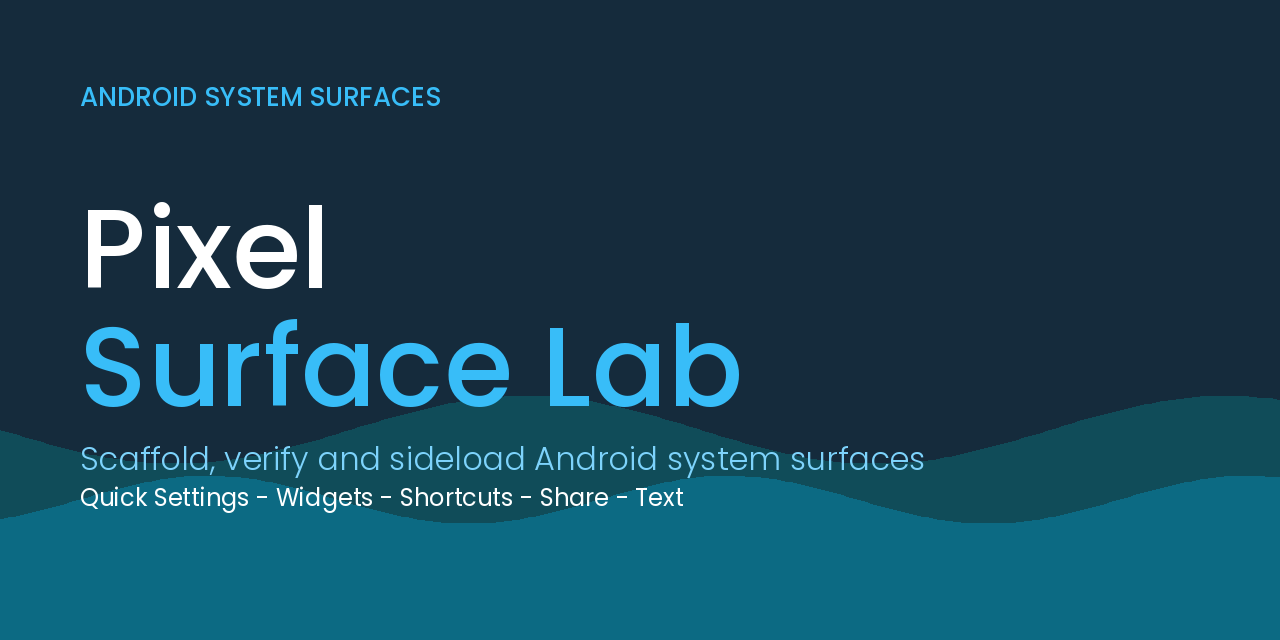
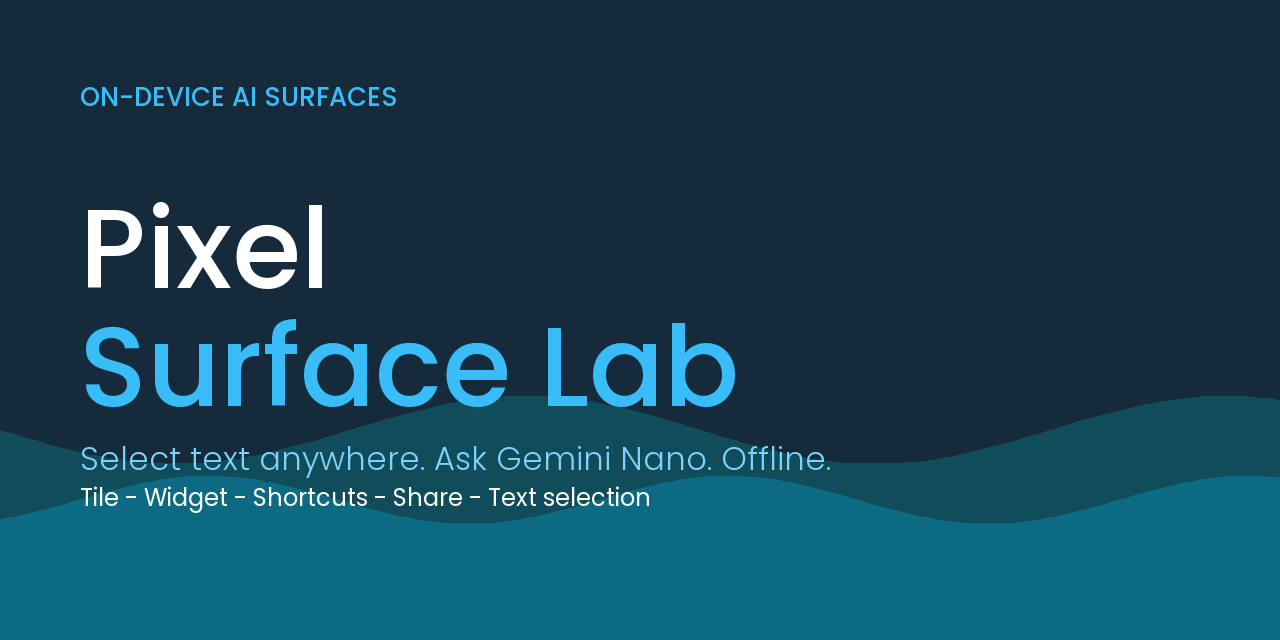
Polish pass: naming, generated projects, widget, assets, one more check
verify.py: a new check on the link between manifest and code. An
<activity-alias> whose name matches no Task case compiles, installs, shows
the menu item and then silently runs whichever task the fallback picked --
now caught statically, in both directions. Writing it surfaced that a
semicolon inside a KDoc line was truncating the enum scan, so comments are
stripped before the terminator is located.

scaffold.py: generated projects now carry tools/verify.py and gate CI on it.
Previously the generated README told you to run a checker that only existed
in the template you generated from, and the generated CI had no pre-flight at
all. Copying rather than templating means the two cannot drift. Generated
release steps also pass --repo explicitly, matching the flagship.

Naming: DemoTileService and DemoWidgetProvider became SurfaceTileService and
SurfaceWidgetProvider. They stopped being demos when they started reporting
model status and holding real answers.

Widget: the value was styled 28sp bold for a timestamp and now holds prose.
Sized for eight lines, ellipsized, clipped rather than allowed to overflow --
a RemoteViews layout that outgrows its cell is cropped by the launcher with
no way to scroll it.

ship.sh: the badge rewrite only replaced the OWNER/REPO placeholder, so
anyone cloning this repo shipped a project whose badges still pointed
upstream. Both spellings are rewritten now. It also runs the checker's own
tests before pushing, and names which APK to tap.
[…]

diff --git a/app/src/main/java/com/caceras/surfacelab/SurfaceWidgetProvider.kt b/app/src/main/java/com/caceras/surfacelab/SurfaceWidgetProvider.kt
@@ -16,7 +16,7 @@ import java.util.Locale
  * of its own, so everything it displays has to come from storage -- see
  * ResultStore. Tapping it refreshes via a broadcast back to this provider.
  */
-class DemoWidgetProvider : AppWidgetProvider() {
+class SurfaceWidgetProvider : AppWidgetProvider() {
 
     override fun onUpdate(
         context: Context,
@@ -31,7 +31,7 @@ class DemoWidgetProvider : AppWidgetProvider() {
         if (intent.action == ACTION_REFRESH) {
             val manager = AppWidgetManager.getInstance(context)
             val ids = manager.getAppWidgetIds(
-                ComponentName(context, DemoWidgetProvider::class.java)
+                ComponentName(context, SurfaceWidgetProvider::class.java)
             )
             onUpdate(context, manager, ids)
         }
@@ -43,7 +43,7 @@ class DemoWidgetProvider : AppWidgetProvider() {
         val value = last?.let { if (it.length > 160) it.take(157) + "..." else it }
             ?: SimpleDateFormat("HH:mm:ss", Locale.getDefault()).format(Date())
 
-        val refresh = Intent(context, DemoWidgetProvider::class.java)
+        val refresh = Intent(context, SurfaceWidgetProvider::class.java)
             .setAction(ACTION_REFRESH)
 
         // A mutability flag is mandatory on API 31+; omitting both

diff --git a/app/src/main/java/com/caceras/surfacelab/ResultStore.kt b/app/src/main/java/com/caceras/surfacelab/ResultStore.kt
@@ -41,12 +41,12 @@ object ResultStore {
         val app = context.applicationContext
         val manager = AppWidgetManager.getInstance(app)
         val ids = manager.getAppWidgetIds(
-            ComponentName(app, DemoWidgetProvider::class.java)
+            ComponentName(app, SurfaceWidgetProvider::class.java)
         )
         if (ids.isEmpty()) return
         app.sendBroadcast(
-            Intent(app, DemoWidgetProvider::class.java)
-                .setAction(DemoWidgetProvider.ACTION_REFRESH)
+            Intent(app, SurfaceWidgetProvider::class.java)
+                .setAction(SurfaceWidgetProvider.ACTION_REFRESH)
         )
     }
 }

diff --git a/app/src/main/java/com/caceras/surfacelab/MainActivity.kt b/app/src/main/java/com/caceras/surfacelab/MainActivity.kt
@@ -139,7 +139,7 @@ class MainActivity : Activity() {
                         .requestAddTileService(
                             ComponentName(
                                 this@MainActivity,
-                                DemoTileService::class.java
+                                SurfaceTileService::class.java
                             ),
                             getString(R.string.app_name),
                             Icon.createWithResource(

diff --git a/app/src/main/java/com/caceras/surfacelab/SurfaceTileService.kt b/app/src/main/java/com/caceras/surfacelab/SurfaceTileService.kt
@@ -15,7 +15,7 @@ import android.widget.Toast
  * is actually present on the device, and to trigger the one-time feature
  * download without hunting through system settings.
  */
-class DemoTileService : TileService() {
+class SurfaceTileService : TileService() {
 
     override fun onStartListening() {
         super.onStartListening()

diff --git a/tools/scaffold.py b/tools/scaffold.py
@@ -267,7 +267,21 @@ def workflow(files, app_name, slug):
           cancel-in-progress: true
 
         jobs:
+          # Two seconds here, versus three minutes to discover the same
+          # dangling resource reference at the end of a Gradle build.
+          verify:
+            name: Static pre-flight
+            runs-on: ubuntu-latest
+            steps:
+              - uses: actions/checkout@v4
+              - uses: actions/setup-python@v5
+                with:
+                  python-version: "3.12"
+              - run: pip install pyyaml
+              - run: python tools/verify.py .
+
           build:
+            needs: verify
             runs-on: ubuntu-latest
             steps:
               - uses: actions/checkout@v4
@@ -311,8 +325,10 @@ def workflow(files, app_name, slug):
                 env:
                   GH_TOKEN: ${{{{ github.token }}}}
                 run: |
-                  gh release delete debug-latest --yes --cleanup-tag || true
+                  gh release delete debug-latest --repo "$GITHUB_REPOSITORY" \\
+                    --yes --cleanup-tag || true
                   gh release create debug-latest \\
+                    --repo "$GITHUB_REPOSITORY" \\
                     "{slug}-debug.apk" \\
                     --title "{xml_text(app_name)} debug (build ${{{{ github.run_number }}}})" \\
                     --notes "Open this page on your phone and tap the .apk to install."
@@ -324,7 +340,7 @@ def workflow(files, app_name, slug):
 # --------------------------------------------------------------------------
 
 def surface_tile(files, pkg, src, app_name):
-    w(files, f"{src}/DemoTileService.kt", f"""
+    w(files, f"{src}/SurfaceTileService.kt", f"""
         package {pkg}
 
         import android.graphics.drawable.Icon
@@ -337,7 +353,7 @@ def surface_tile(files, pkg, src, app_name):
          * Quick Settings tile. The system binds this service only while the shade
          * is open, so keep the work here trivial.
          */
-        class DemoTileService : TileService() {{
+        class SurfaceTileService : TileService() {{
 
             private var active = false
 
@@ -377,7 +393,7 @@ def surface_tile(files, pkg, src, app_name):
     return {
         "manifest": """
         <service
-            android:name=".DemoTileService"
+            android:name=".SurfaceTileService"
             android:exported="true"
             android:icon="@drawable/ic_surface"
             android:label="@string/app_name"
@@ -392,7 +408,7 @@ def surface_tile(files, pkg, src, app_name):
 
 
 def surface_widget(files, pkg, src, app_name):
-    w(files, f"{src}/DemoWidgetProvider.kt", f"""
+    w(files, f"{src}/SurfaceWidgetProvider.kt", f"""
         package {pkg}
 
         import android.app.PendingIntent
@@ -410,7 +426,7 @@ def surface_widget(files, pkg, src, app_name):
          * Home screen widget. Tapping it fires a broadcast back to this provider,
          * which refreshes the timestamp -- enough to prove the round trip works.
          */
-        class DemoWidgetProvider : AppWidgetProvider() {{
+        class SurfaceWidgetProvider : AppWidgetProvider() {{
 
             override fun onUpdate(
                 context: Context,
@@ -425,7 +441,7 @@ def surface_widget(files, pkg, src, app_name):
                 if (intent.action == ACTION_REFRESH) {{
                     val manager = AppWidgetManager.getInstance(context)
                     val ids = manager.getAppWidgetIds(
-                        ComponentName(context, DemoWidgetProvider::class.java)
+                        ComponentName(context, SurfaceWidgetProvider::class.java)
                     )
                     onUpdate(context, manager, ids)
                 }}
@@ -435,7 +451,7 @@ def surface_widget(files, pkg, src, app_name):
                 val stamp = SimpleDateFormat("HH:mm:ss", Locale.getDefault())
                     .format(Date())
 
-                val refresh = Intent(context, DemoWidgetProvider::class.java)
+                val refresh = Intent(context, SurfaceWidgetProvider::class.java)
                     .setAction(ACTION_REFRESH)
 
                 // A mutability flag is mandatory on API 31+; omitting both
@@ -521,7 +537,7 @@ def surface_widget(files, pkg, src, app_name):
     return {
         "manifest": f"""
         <receiver
-            android:name=".DemoWidgetProvider"
+            android:name=".SurfaceWidgetProvider"
             android:exported="true">
             <intent-filter>
                 <action android:name="android.appwidget.action.APPWIDGET_UPDATE" />
@@ -696,7 +712,7 @@ def main_activity(files, pkg, src, app_name, chosen, parts):
                         .requestAddTileService(
                             ComponentName(
                                 this@MainActivity,
-                                DemoTileService::class.java
+                                SurfaceTileService::class.java
                             ),
                             getString(R.string.app_name),
                             Icon.createWithResource(
@@ -904,6 +920,24 @@ Uninstall first when switching.
 
 # --------------------------------------------------------------------------
 
+def bundle_checker(files):
+    """Copy verify.py into the generated project.
+
+    Without this the project's own README tells you to run a checker that
+    only exists in the template you generated from, and its CI has no
+    pre-flight at all. Copying rather than templating means the two can
+    never drift apart.
+    """
+    source = os.path.join(os.path.dirname(os.path.abspath(__file__)), "verify.py")
+    try:
+        with open(source, encoding="utf-8") as fh:
+            files["tools/verify.py"] = fh.read()
+    except OSError:
+        # Generating from a stripped copy of the tools directory is not fatal;
+        # the project still builds, it just loses its pre-flight.
+        print("  note: verify.py not found next to scaffold.py, not bundled")
+
+
 def validate_package(pkg):
     if not re.fullmatch(r"[a-z][a-z0-9_]*(\.[a-z][a-z0-9_]*)+", pkg):
         sys.exit(f"Invalid package name: {pkg!r}\n"
@@ -956,6 +990,7 @@ def main():
 
     skeleton(files, pkg, app_name)
     workflow(files, app_name, slug)
+    bundle_checker(files)
 
     parts = {s: BUILDERS[s](files, pkg, src, app_name) for s in chosen}
 

diff --git a/tools/verify.py b/tools/verify.py
@@ -16,6 +16,9 @@ Checks performed:
   7. Any component with an intent-filter sets android:exported (a hard error
      from API 31 on).
   8. The manifest declares a launcher activity.
+  8b. Every <activity-alias> matches a case of the Task enum, and every Task
+      case is registered by some flavour. A mismatch here compiles, installs,
+      and then silently runs the wrong task.
   9. Source sets that are meant to have no dependencies really have none.
  10. The workflow parses and references APK paths that the build produces.
 
@@ -292,6 +295,97 @@ def check_manifests(project, sets, class_names, problems):
         fail(problems, "No launcher activity declared in any manifest")
 
 
+# Matches an enum constant carrying a single string argument, e.g.
+#   SUMMARIZE("Summarize"),
+TASK_CONSTANT = re.compile(r'^\s*([A-Z][A-Z0-9_]*)\("([^"]+)"\)', re.M)
+
+
+def strip_comments(source):
+    """Blank out // and /* */ comments, preserving line structure."""
+    out = []
+    i, n = 0, len(source)
+    while i < n:
+        if source.startswith("//", i):
+            end = source.find("\n", i)
+            if end == -1:
+                break
+            i = end
+        elif source.startswith("/*", i):
+            end = source.find("*/", i + 2)
+            if end == -1:
+                break
+            out.append("\n" * source.count("\n", i, end))
+            i = end + 2
+        else:
+            out.append(source[i])
+            i += 1
+    return "".join(out)
+
+
+def task_aliases(project, sets):
+    """The alias strings declared by the Task enum, if the project has one."""
+    for source_set in sets:
+        for path in kotlin_sources(project, source_set):
+            with open(path, encoding="utf-8") as fh:
+                body = fh.read()
+            marker = "enum class Task("
+            if marker not in body:
+                continue
+            # Comments are stripped before looking for the terminating ";" --
+            # a semicolon inside a KDoc line would otherwise cut the enum
+            # short and silently hide half its cases from this check.
+            region = strip_comments(body[body.index(marker):])
+            end = region.find(";")
+            if end != -1:
+                region = region[:end]
+            names = {m.group(2) for m in TASK_CONSTANT.finditer(region)}
+            return names, os.path.relpath(path, project)
+    return None, None
+
+
+def manifest_aliases(project, sets):
+    """Every <activity-alias> simple name, mapped to the manifest declaring it."""
+    found = {}
+    for source_set in sets:
+        path = os.path.join(project, "app", "src", source_set, "AndroidManifest.xml")
+        if not os.path.isfile(path):
+            continue
+        try:
+            root = ET.parse(path).getroot()
+        except ET.ParseError:
+            continue
+        app = root.find("application")
+        if app is None:
+            continue
+        for component in app.findall("activity-alias"):
+            name = component.get(f"{ANDROID_NS}name") or ""
+            found[name.lstrip(".").rsplit(".", 1)[-1]] = os.path.relpath(path, project)
+    return found
+
+
+def check_task_parity(project, sets, problems):
+    """The alias name is the only link between a manifest entry and the code
+    that handles it. Get it wrong and the app compiles, installs, shows the
+    menu item, and then quietly runs whichever task the fallback picked."""
+    declared, where = task_aliases(project, sets)
+    if declared is None:
+        return  # a project without the Task enum, e.g. a fresh scaffold
+
+    registered = manifest_aliases(project, sets)
+
+    for alias, manifest in sorted(registered.items()):
+        if alias not in declared:
+            fail(problems,
+                 f"{manifest}: <activity-alias> \"{alias}\" matches no case of "
+                 f"the Task enum in {where} -- it will fall back to the wrong "
+                 "task at runtime")
+
+    for alias in sorted(declared - set(registered)):
+        fail(problems,
+             f"{where}: Task alias \"{alias}\" is never registered by any "
+             "flavour manifest, so nothing can reach it")
+
+
 def check_workflow(project, problems):
     path = os.path.join(project, ".github", "workflows", "build.yml")
     if not os.path.isfile(path):
@@ -351,6 +445,7 @@ def main():
                      all_sources[source_set], problems)
 
     check_flavour_parity(project, sets, per_set, problems)
+    check_task_parity(project, sets, problems)
     xml_files = check_xml(project, all_resources, problems)
     check_manifests(project, sets, class_names, problems)
     check_workflow(project, problems)

diff --git a/tools/make_assets.py b/tools/make_assets.py
@@ -38,7 +38,7 @@ MID_GREY = "#6B7280"
 # Optional wordmark. Drop a transparent PNG at this path to brand the assets;
 # without it an eyebrow label is drawn instead.
 WORDMARK = "wordmark.png"
-EYEBROW = "ANDROID SYSTEM SURFACES"
+EYEBROW = "ON-DEVICE AI SURFACES"
 
 HERE = os.path.dirname(os.path.abspath(__file__))
 REPO = os.path.dirname(HERE)
@@ -115,7 +115,7 @@ def build_banner(path, width=1280, height=420):
 
     draw.text((64, 132), "Pixel Surface Lab", font=medium(78), fill=WHITE)
     draw.text((64, 232),
-              "Ship a real Android system surface to your Pixel in minutes.",
+              "Prompt a model that runs on your Pixel. From any text selection.",
               font=light(30), fill=SKY)
 
     x = 64
@@ -145,9 +145,9 @@ def build_social(path, width=1280, height=640):
     draw.text((80, 170), "Pixel", font=medium(112), fill=WHITE)
     draw.text((80, 288), "Surface Lab", font=medium(112), fill=ACCENT)
     draw.text((80, 436),
-              "Scaffold, verify and sideload Android system surfaces",
+              "Select text anywhere. Ask Gemini Nano. Offline.",
               font=light(32), fill=SKY)
-    draw.text((80, 480), "Quick Settings - Widgets - Shortcuts - Share - Text",
+    draw.text((80, 480), "Tile - Widget - Shortcuts - Share - Text selection",
               font=regular(24), fill=(255, 255, 255, 170))
 
     img.save(path)
@@ -215,9 +215,9 @@ def build_pipeline_gif(path, width=900, height=420):
         ("2  Verify", "python tools/verify.py .",
          "Catches broken refs before CI", TEAL),
         ("3  Push", "git push",
-         "GitHub Actions builds the APK", SKY),
-        ("4  Install", "Releases -> tap the .apk",
-         "The tile appears on your Pixel", YELLOW),
+         "CI builds and publishes the APK", SKY),
+        ("4  Ask", "Select text -> Ask Nano",
+         "Answers on the phone, radios off", YELLOW),
     ]
 
     frames = []

diff --git a/docs/surfaces.md b/docs/surfaces.md
@@ -15,7 +15,7 @@ API 24+. A `TileService` bound by the system only while the shade is open.
 
 ```xml
 <service
-    android:name=".DemoTileService"
+    android:name=".SurfaceTileService"
     android:exported="true"
     android:icon="@drawable/ic_surface"
     android:label="@string/app_name"
